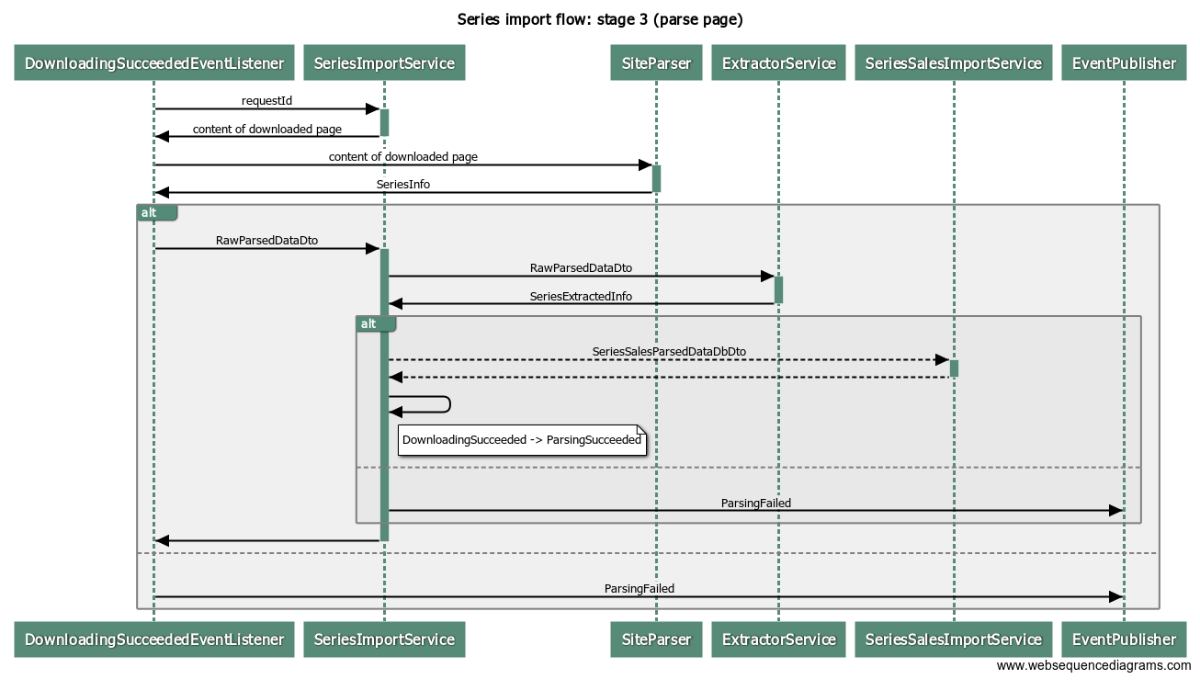
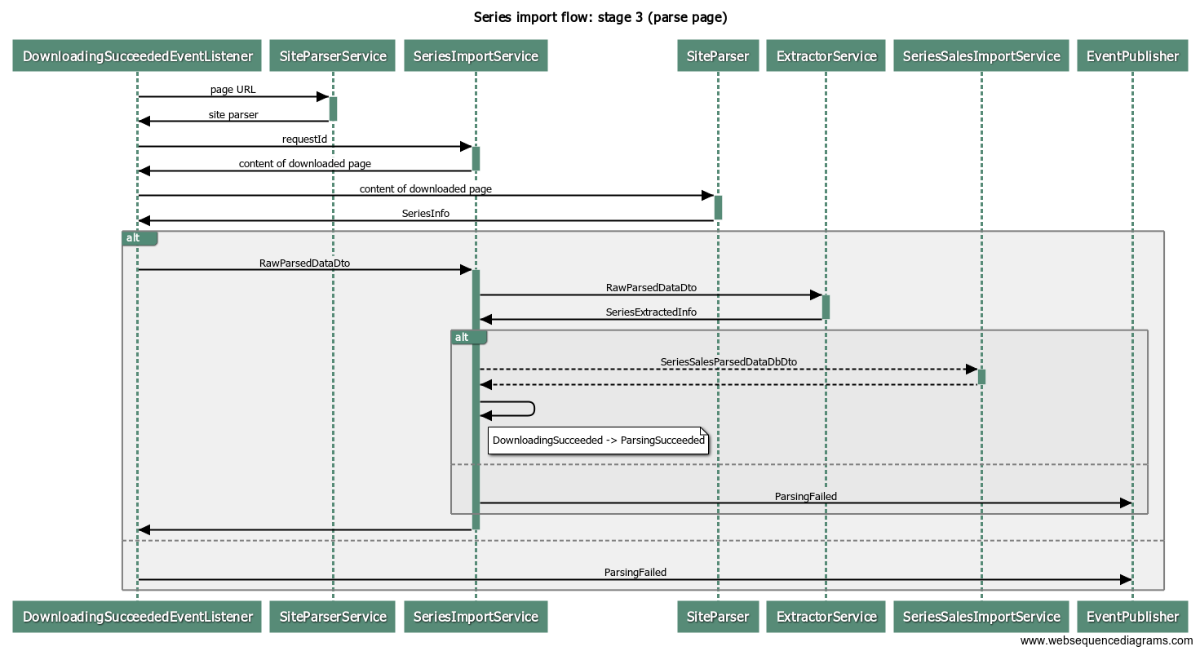
refactor: update code to get site parsers from database.
BREAKING CHANGE: site parsers from application.properties are now ignored. It's supposed that they
have been migrated by running application with the code from previous commit. Otherwise,
administrator can migrate them manually.

Addressed to #975

Changed region(s): [[0.0, 0.0, 1.0, 1.0], [0.7708, 0.3369, 0.8325, 0.3675], [0.6475, 0.3369, 0.7092, 0.3675]]

diff --git a/src/main/java/ru/mystamps/web/feature/series/importing/extractor/JsoupSiteParser.java b/src/main/java/ru/mystamps/web/feature/series/importing/extractor/JsoupSiteParser.java
@@ -30,6 +30,7 @@ import org.jsoup.nodes.Element;
 
 import lombok.AccessLevel;
 import lombok.Getter;
+import lombok.NoArgsConstructor;
 import lombok.Setter;
 
 // Getters/setters are being used in unit tests
@@ -41,6 +42,8 @@ import lombok.Setter;
 	// false positive because setField() modifies the fields
 	"PMD.ImmutableField"
 })
+// TODO: consider to remove no-arg constructor after removing code for creating parsers from file
+@NoArgsConstructor
 public class JsoupSiteParser implements SiteParser {
 	private static final Logger LOG = LoggerFactory.getLogger(JsoupSiteParser.class);
 	
@@ -48,6 +51,7 @@ public class JsoupSiteParser implements SiteParser {
 	// - JsoupSiteParser.setField()
 	// - JsoupSiteParser.isFullyInitialized() (optionally)
 	// - JsoupSiteParserTest.describe()
+	// - JsoupSiteParser constructor
 	// - SiteParserConfiguration
 	private String name;
 	private String matchedUrl;
@@ -60,6 +64,21 @@ public class JsoupSiteParser implements SiteParser {
 	private String sellerLocator;
 	private String priceLocator;
 	private String currencyValue;
+	
+	// @todo #975 SiteParserServiceImpl: add unit tests for constructor
+	public JsoupSiteParser(SiteParserConfiguration cfg) {
+		name                    = cfg.getName();
+		matchedUrl              = cfg.getMatchedUrl();
+		categoryLocator         = cfg.getCategoryLocator();
+		countryLocator          = cfg.getCountryLocator();
+		shortDescriptionLocator = cfg.getShortDescriptionLocator();
+		imageUrlLocator         = cfg.getImageUrlLocator();
+		imageUrlAttribute       = cfg.getImageUrlAttribute();
+		issueDateLocator        = cfg.getIssueDateLocator();
+		sellerLocator           = cfg.getSellerLocator();
+		priceLocator            = cfg.getPriceLocator();
+		currencyValue           = cfg.getCurrencyValue();
+	}
 	
 	// TODO: remove because it's only needed for migrating configuration from file to database
 	public SiteParserConfiguration toConfiguration() {
@@ -151,14 +170,6 @@ public class JsoupSiteParser implements SiteParser {
 				|| sellerLocator != null
 				|| priceLocator != null
 			);
-	}
-	
-	@Override
-	public boolean canParse(String url) {
-		Validate.validState(url != null, "Site URL must be non-null");
-		Validate.validState(matchedUrl != null, "Matched URL must be set");
-		
-		return url.startsWith(matchedUrl);
 	}
 	
 	/**

diff --git a/src/main/java/ru/mystamps/web/feature/series/importing/event/DownloadingSucceededEventListener.java b/src/main/java/ru/mystamps/web/feature/series/importing/event/DownloadingSucceededEventListener.java
@@ -59,6 +59,7 @@ public class DownloadingSucceededEventListener
 	
 	@PostConstruct
 	public void init() {
+		// TODO: get all parser names from database
 		log.info("Registered site parsers: {}", siteParsers);
 		
 		// TODO: remove migration logic after finishing migration
@@ -71,26 +72,17 @@ public class DownloadingSucceededEventListener
 		
 		log.info("Request #{}: downloading succeeded", requestId);
 		
+		SiteParser parser = siteParserService.findForUrl(event.getUrl());
+		if (parser == null) {
+			// TODO: how to handle error? maybe publish UnexpectedErrorEvent?
+			log.error("Request #{}: could not find appropriate parser", requestId);
+			return;
+		}
+		
 		String content = seriesImportService.getDownloadedContent(requestId);
 		if (content == null) {
 			// TODO: how to handle error? maybe publish UnexpectedErrorEvent?
 			log.error("Request #{}: could not load a content from database", requestId);
-			return;
-		}
-		
-		// TODO: replace with siteParserService.findForUrl(url) and update diagrams
-		String url = event.getUrl();
-		SiteParser parser = null;
-		for (SiteParser candidate : siteParsers) {
-			if (candidate.canParse(url)) {
-				parser = candidate;
-				break;
-			}
-		}
-		
-		if (parser == null) {
-			// TODO: how to handle error? maybe publish UnexpectedErrorEvent?
-			log.error("Request #{}: could not find appropriate parser", requestId);
 			return;
 		}
 		

diff --git a/src/test/java/ru/mystamps/web/feature/series/importing/extractor/JsoupSiteParserTest.java b/src/test/java/ru/mystamps/web/feature/series/importing/extractor/JsoupSiteParserTest.java
@@ -287,42 +287,6 @@ public class JsoupSiteParserTest {
 	}
 	
 	//
-	// Tests for canParse()
-	//
-	
-	@Test
-	public void canParseShouldRequireNonNullUrl() {
-		thrown.expect(IllegalStateException.class);
-		thrown.expectMessage("Site URL must be non-null");
-		
-		parser.canParse(null);
-	}
-	
-	@Test
-	public void canParseShouldRequireNonNullMatchedUrl() {
-		parser.setMatchedUrl(null);
-		
-		thrown.expect(IllegalStateException.class);
-		thrown.expectMessage("Matched URL must be set");
-		
-		parser.canParse(Random.url());
-	}
-	
-	@Test
-	public void canParseWithUnsupportedUrl() {
-		parser.setMatchedUrl("http://example.org");
-		
-		assertThat(parser.canParse("http://example.com/test/fail"), is(false));
-	}
-	
-	@Test
-	public void canParseWithSupportedUrl() {
-		parser.setMatchedUrl("http://example.org");
-		
-		assertThat(parser.canParse("http://example.org/test/success"), is(true));
-	}
-	
-	//
 	// Tests for parse()
 	//
 	

diff --git a/src/main/java/ru/mystamps/web/feature/series/importing/extractor/SiteParserServiceImpl.java b/src/main/java/ru/mystamps/web/feature/series/importing/extractor/SiteParserServiceImpl.java
@@ -62,7 +62,7 @@ public class SiteParserServiceImpl implements SiteParserService {
 	// @todo #975 SiteParserServiceImpl.findForUrl(): add unit tests
 	@Override
 	@Transactional(readOnly = true)
-	public SiteParserConfiguration findForUrl(String url) {
+	public SiteParser findForUrl(String url) {
 		Validate.isTrue(url != null, "Url must be non null");
 		
 		Integer parserId = siteParserDao.findParserIdForUrl(url);
@@ -71,7 +71,13 @@ public class SiteParserServiceImpl implements SiteParserService {
 			return null;
 		}
 		
-		return siteParserDao.findConfigurationForParser(parserId);
+		SiteParserConfiguration cfg = siteParserDao.findConfigurationForParser(parserId);
+		if (cfg == null) {
+			log.warn("Could not find configuration for parser #{}", parserId);
+			return null;
+		}
+		
+		return new JsoupSiteParser(cfg);
 	}
 	
 }

diff --git a/src/main/java/ru/mystamps/web/feature/series/importing/extractor/TimedSiteParser.java b/src/main/java/ru/mystamps/web/feature/series/importing/extractor/TimedSiteParser.java
@@ -47,11 +47,6 @@ public class TimedSiteParser implements SiteParser {
 	}
 	
 	@Override
-	public boolean canParse(String url) {
-		return parser.canParse(url);
-	}
-	
-	@Override
 	public SeriesInfo parse(String htmlPage) {
 		// Why we don't use Spring's StopWatch?
 		// 1) because its javadoc says that it's not intended for production

diff --git a/src/main/java/ru/mystamps/web/feature/series/importing/extractor/SiteParser.java b/src/main/java/ru/mystamps/web/feature/series/importing/extractor/SiteParser.java
@@ -23,8 +23,5 @@ public interface SiteParser {
 	
 	boolean isFullyInitialized();
 	
-	// TODO: remove because it's only needed for migrating configuration from file to database
-	boolean canParse(String url);
-	
 	SeriesInfo parse(String htmlPage);
 }

diff --git a/src/main/java/ru/mystamps/web/feature/series/importing/extractor/SiteParserService.java b/src/main/java/ru/mystamps/web/feature/series/importing/extractor/SiteParserService.java
@@ -19,5 +19,5 @@ package ru.mystamps.web.feature.series.importing.extractor;
 
 public interface SiteParserService {
 	void add(SiteParserConfiguration cfg);
-	SiteParserConfiguration findForUrl(String url);
+	SiteParser findForUrl(String url);
 }
